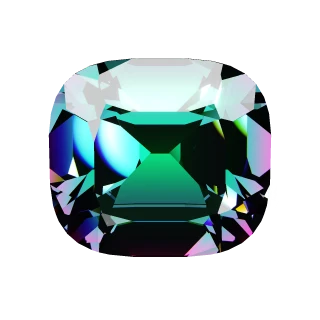
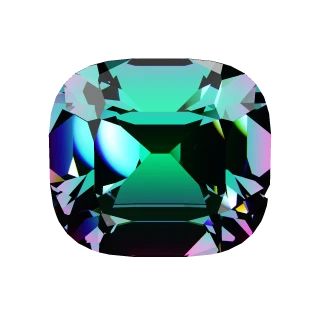
宝石の表の平らな面が照明を映して白く抜けないようにする (#282)
- 表の面で跳ね返る光だけに、見る向きのまわり 50° の黒い板を掛ける（撮影でカメラのまわりを黒く囲うのと同じ）。エメラルドカットなどの広いテーブルが揺れて傾いたとき、照明の箱を丸ごと映して真っ白になり中が見えなかった。中を通る光（色・きらめき・ファイア）は変えない
- アイコンの画像を書き出し直す（その場で描く宝石と見た目をそろえる）

Claude-Session: https://claude.ai/code/session_01HLzaxARq65NVeRUuTpyAwe

Changed region(s): [[0.1875, 0.1562, 0.8125, 0.4375], [0.6875, 0.5938, 0.7188, 0.6875]]

diff --git a/js/gem-gl.js b/js/gem-gl.js
@@ -208,7 +208,8 @@ function lightsOf(list, soft) {
   return list.map((l) => ({ dir: [Math.cos(l.el * D2R) * Math.cos(l.az * D2R), Math.cos(l.el * D2R) * Math.sin(l.az * D2R), Math.sin(l.el * D2R)], c0: Math.cos(l.r * D2R), c1: Math.cos(l.r * soft * D2R), I: l.I }));
 }
 const ring = (n, el, r, I, off = 0) => Array.from({ length: n }, (_, i) => ({ az: off + (i * 360) / n, el, r, I }));
-const ENV_FACET = { L: lightsOf([...ring(6, 42, 13, 5, 15), ...ring(12, 68, 2.6, 30, 7), ...ring(4, 18, 9, 3, 40)], 1.3), sky0: 0.016, sky1: 0.04, floor: 0.035, head: 16 };
+// flag：表の面で跳ね返る光だけに掛ける黒い板の広さ（度）。揺れて傾いた広い平らな面（エメラルドカットのテーブルなど）が照明の箱を丸ごと映して白く抜けないように
+const ENV_FACET = { L: lightsOf([...ring(6, 42, 13, 5, 15), ...ring(12, 68, 2.6, 30, 7), ...ring(4, 18, 9, 3, 40)], 1.3), sky0: 0.016, sky1: 0.04, floor: 0.035, head: 16, flag: 50 };
 // 分散の強い石（spark）：小さな強い光をもっと小さく鋭くする（明るさの合計は同じ）。光が波長ごとに分かれて、ファイアが虹色に見える
 const ENV_SPARK = { ...ENV_FACET, L: lightsOf([...ring(6, 42, 13, 5, 15), ...ring(12, 68, 0.6, 565, 7), ...ring(4, 18, 9, 3, 40)], 1.3) };
 // ダイヤモンド：大きな箱を高さ交互に置く（6 つを同じ高さに並べると、テーブルの真ん中に箱が丸く白く写り込むため）

diff --git a/sw.js b/sw.js
@@ -1,5 +1,5 @@
 // オフラインでも あそべるように キャッシュする
-const CACHE = 'jewel-survivor-v259';
+const CACHE = 'jewel-survivor-v260';
 const ASSETS = [
   './', './index.html', './css/style.css', './manifest.webmanifest',
   './js/main.js', './js/game.js', './js/weapons.js', './js/data.js', './js/render.js', './js/fx.js',

diff --git a/CLAUDE.md b/CLAUDE.md
@@ -65,7 +65,7 @@
 - 大きい背景の光（.rays）を入れるスクロールする画面は `.rays-clip` で包む（スクロールの範囲が光の分だけ広がるため）。はみ出しうる画面の中央寄せは前後の余白 auto で行う（justify-content: center だと上側に届かない）。
 - コイン報酬のアイコンは coinIcon。ユーザーランクは称号の素材の見た目（`.rk-mat` ＋ `.rk-acrylic` / `.rk-glass` / `.rk-crystal`。タイトル左上のチップ・詳細の板・称号の段で共通）。
 - ステージのカード（ステージ選択・図鑑）の背景は scene-art.js の風景（`has-scene` と `--scene`。ui.js の paintScenes が、描き済みはすぐ、まだのものは 1 枚ずつ間をあけて描いて貼る）。カードを選んだときは作り直さず選択の枠だけ付け替える（markSel。作り直すと風景がちらつく）。
-- 宝石の絵は光線追跡（gem-gl.js。カットを平面の集合で作り、屈折・全反射・分散・吸収を計算する。透明な石は波長ごとに `NW` 本の光線を出し（屈折率はコーシーの式。点ごとに波長をずらすので、細かく描くほどファイアの色がなめらかにつながる。NW を増やすとその分重い）、近くから見る向き（`PERSP`。面の中で見る向きが変わり、ファイアの中で色が移ろう。表の面で跳ね返る光だけは遠くからの向き）で描く。分散の強い石（GEM_LOOK の `spark`）は小さく鋭い照明（`ENV_SPARK`）。石ごとの照明は GEM_LOOK の `env`（ENVS。ダイヤモンドは大きな箱を高さ交互にしてテーブルの白い丸を消す、アレキサンドライトは真正面に小さな光を置いて頭の影を消し、真ん中を青緑に明るく出す）。`fill` は照明のあいだの暗い空を明るくする（使いすぎると表の面の反射まで明るくなって白く濁る）。不透明な石はカボション（裏から見ると平らな底の面。GEM_LOOK の cut が `sphere` なら裏まで丸い球で、模様は球の上の向きで決める）・カット面・丸く磨いた石の描き方。オパールの遊色とラブラドライトのひらめきは、中の層の向きと照明・見る向きから計算する layerFlash で、傾けると光る場所と色が変わる）。アイコン（gemIcon）は書き出した画像 `img/gems/<id>.webp` を返す（起動のあと main.js が util.js の preloadImages で宝石と百獣の絵を読み込み、imgUrl で blob の URL に差し替える。サービスワーカーが入っていると、<img> を作るたびに読み込み済みの絵でもサービスワーカーを通って待ち、出るのが遅れたりちらついたりするため。新しい画像も imgUrl を通す）。ホーム・ジュエル選択・コレクションの宝石のカード（持っている宝石）・オークションの競りと落札の画面（宝石の品）の宝石は mountLiveGem でその場で描く（画像の横にキャンバスを置いて入れ替える。キャンバスと WebGL はアプリで 1 つを使い回し、画像が画面から外れると止まる。WebGL が使えないときは画像のまま）。ゲーム中の弾などの小さな宝石は gem-art.js の絵（gemSprite）。見た目を変えたら tools/test/gem-bake.js で書き出し直して画像もコミットする。
+- 宝石の絵は光線追跡（gem-gl.js。カットを平面の集合で作り、屈折・全反射・分散・吸収を計算する。透明な石は波長ごとに `NW` 本の光線を出し（屈折率はコーシーの式。点ごとに波長をずらすので、細かく描くほどファイアの色がなめらかにつながる。NW を増やすとその分重い）、近くから見る向き（`PERSP`。面の中で見る向きが変わり、ファイアの中で色が移ろう。表の面で跳ね返る光だけは遠くからの向き）で描く。分散の強い石（GEM_LOOK の `spark`）は小さく鋭い照明（`ENV_SPARK`）。石ごとの照明は GEM_LOOK の `env`（ENVS。ダイヤモンドは大きな箱を高さ交互にしてテーブルの白い丸を消す、アレキサンドライトは真正面に小さな光を置いて頭の影を消し、真ん中を青緑に明るく出す）。`fill` は照明のあいだの暗い空を明るくする（使いすぎると表の面の反射まで明るくなって白く濁る）。表の面で跳ね返る光だけには、見る向きのまわり `flag`（ENV_FACET で 50°）に黒い板を掛ける（撮影でカメラのまわりを黒く囲うのと同じ。揺れて傾いた広いテーブルが照明の箱を丸ごと映して白く抜けないように。中を通る光には掛けない）。不透明な石はカボション（裏から見ると平らな底の面。GEM_LOOK の cut が `sphere` なら裏まで丸い球で、模様は球の上の向きで決める）・カット面・丸く磨いた石の描き方。オパールの遊色とラブラドライトのひらめきは、中の層の向きと照明・見る向きから計算する layerFlash で、傾けると光る場所と色が変わる）。アイコン（gemIcon）は書き出した画像 `img/gems/<id>.webp` を返す（起動のあと main.js が util.js の preloadImages で宝石と百獣の絵を読み込み、imgUrl で blob の URL に差し替える。サービスワーカーが入っていると、<img> を作るたびに読み込み済みの絵でもサービスワーカーを通って待ち、出るのが遅れたりちらついたりするため。新しい画像も imgUrl を通す）。ホーム・ジュエル選択・コレクションの宝石のカード（持っている宝石）・オークションの競りと落札の画面（宝石の品）の宝石は mountLiveGem でその場で描く（画像の横にキャンバスを置いて入れ替える。キャンバスと WebGL はアプリで 1 つを使い回し、画像が画面から外れると止まる。WebGL が使えないときは画像のまま）。ゲーム中の弾などの小さな宝石は gem-art.js の絵（gemSprite）。見た目を変えたら tools/test/gem-bake.js で書き出し直して画像もコミットする。
 - 鑑賞モード（gem-view.js）：コレクションの宝石の詳細で、持っている宝石の絵（右下の虫眼鏡）を押すと開く。ドラッグで回す（画面の縦軸・横軸まわり。はじくと惰性）・2 本指とホイールで拡大・スライダー（明るさ・ファイア（透明な石だけ）・きらめき）・ゆらす・リセット。スライダーは保存しない（ユーザーの希望）。描画は mountLiveGem に `ctl` を渡して同じキャンバスと WebGL を借りる（ctl.frame が描く値を返し、動いていないあいだは描かず、止まった直後に 1 度だけ細かく描く）。draw の最後の引数 `o` を省いたときの見た目（アイコン・その場で描く宝石）は変えない。閉じたら下のカードの宝石に mountLiveGem し直す。
 - ジュエル選択の宝石は額装（case-art.js。奥のベルベット `showcaseBack` は宝石の色の彩度を大きく落としてうっすら乗せる、手前の枠 `showcaseFront` は共通の 1 枚。宝石は gemIcon の img を間に置き、影の位置は `CASE_GEM` と CSS の `.sc-gem` で合わせる）。
 - 図鑑の見たことのある武器・チャームのカード（`.zitem.tap`。右上に ›）を押すと、くわしいページ（gem-spec.js の openSpec。宝石の伝承 `lore` も出す）を重ねて開く。数値は強化を入れない素の値（Lv ごとの表・進化・リミットブレイクの候補・属性・ジュエル・練度は data.js などから計算）。くわしい動きは `WEAPON_SPEC` に手で書いた文なので、武器の挙動や数値を変えたらここも直す。進化の中身は見たことがあるまで ???。
@@ -361,7 +361,7 @@
 ## 6. リリース手順
 
 1. 作業ブランチはセッションで指定されたもの。main に取り込むときに origin/main から作り直すので、先に `git status` で未コミットの新規ファイルを確認する。
-2. sw.js の `CACHE` の版数を 1 つ上げる（現在 `jewel-survivor-v259`）。新しいファイルは `ASSETS` にも足す。
+2. sw.js の `CACHE` の版数を 1 つ上げる（現在 `jewel-survivor-v260`）。新しいファイルは `ASSETS` にも足す。
 3. `node --check` と、変えた箇所だけのテスト。
 4. 取り込み：
    ```sh
